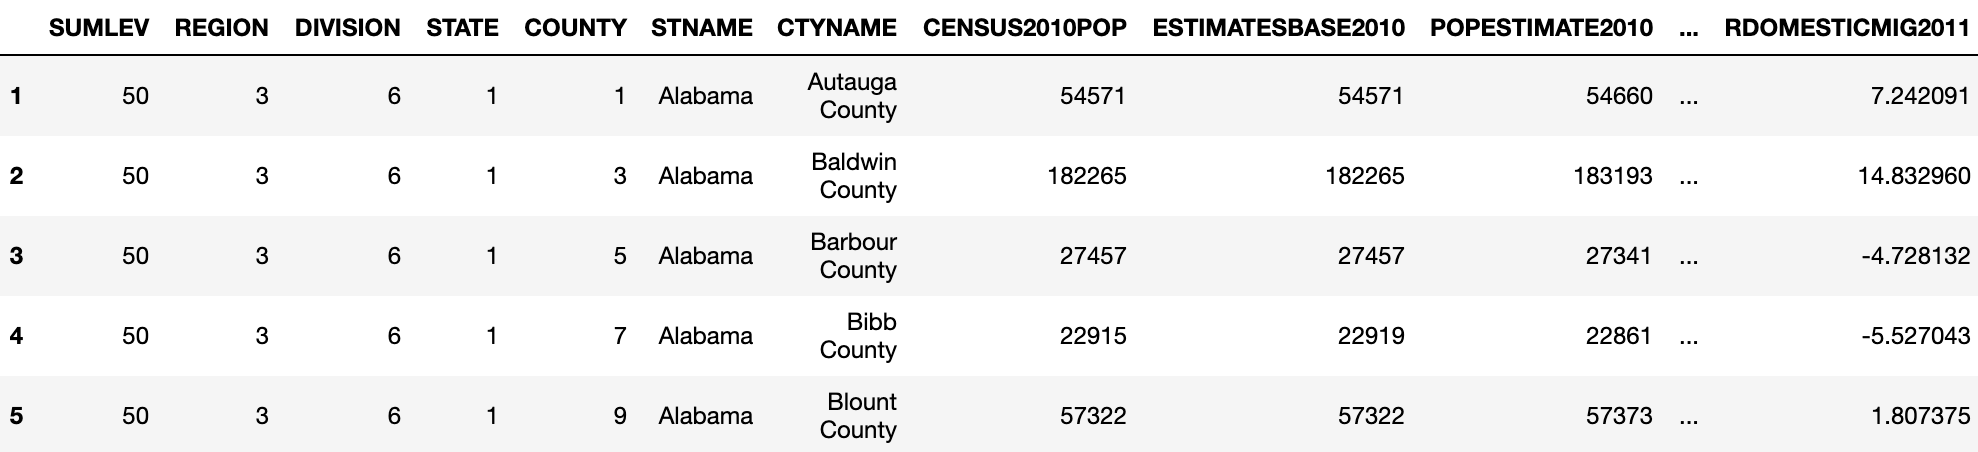
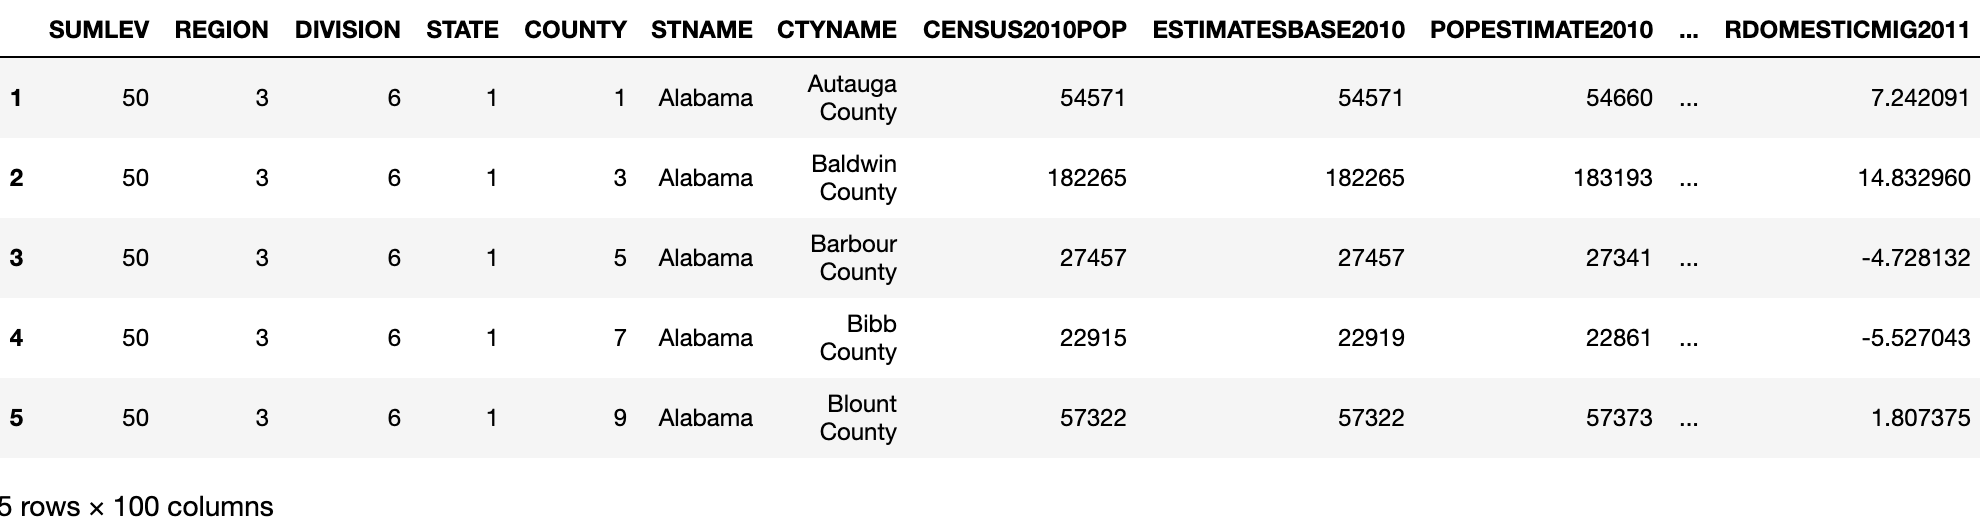
add image

diff --git a/Applied Data Science with Python (Coursera Specialization)/01 Introduction to Data Science in Python/2-6 Indexing Dataframes.md b/Applied Data Science with Python (Coursera Specialization)/01 Introduction to Data Science in Python/2-6 Indexing Dataframes.md
@@ -69,3 +69,5 @@ df=df[df['SUMLEV'] == 50]
 df.head()
 ```
 
+<img src='https://github.com/siyinghan/Notes/raw/master/Applied%20Data%20Science%20with%20Python%20(Coursera%20Specialization)/01%20Introduction%20to%20Data%20Science%20in%20Python/Image/031.png' alt='031' width='100%' />
+
